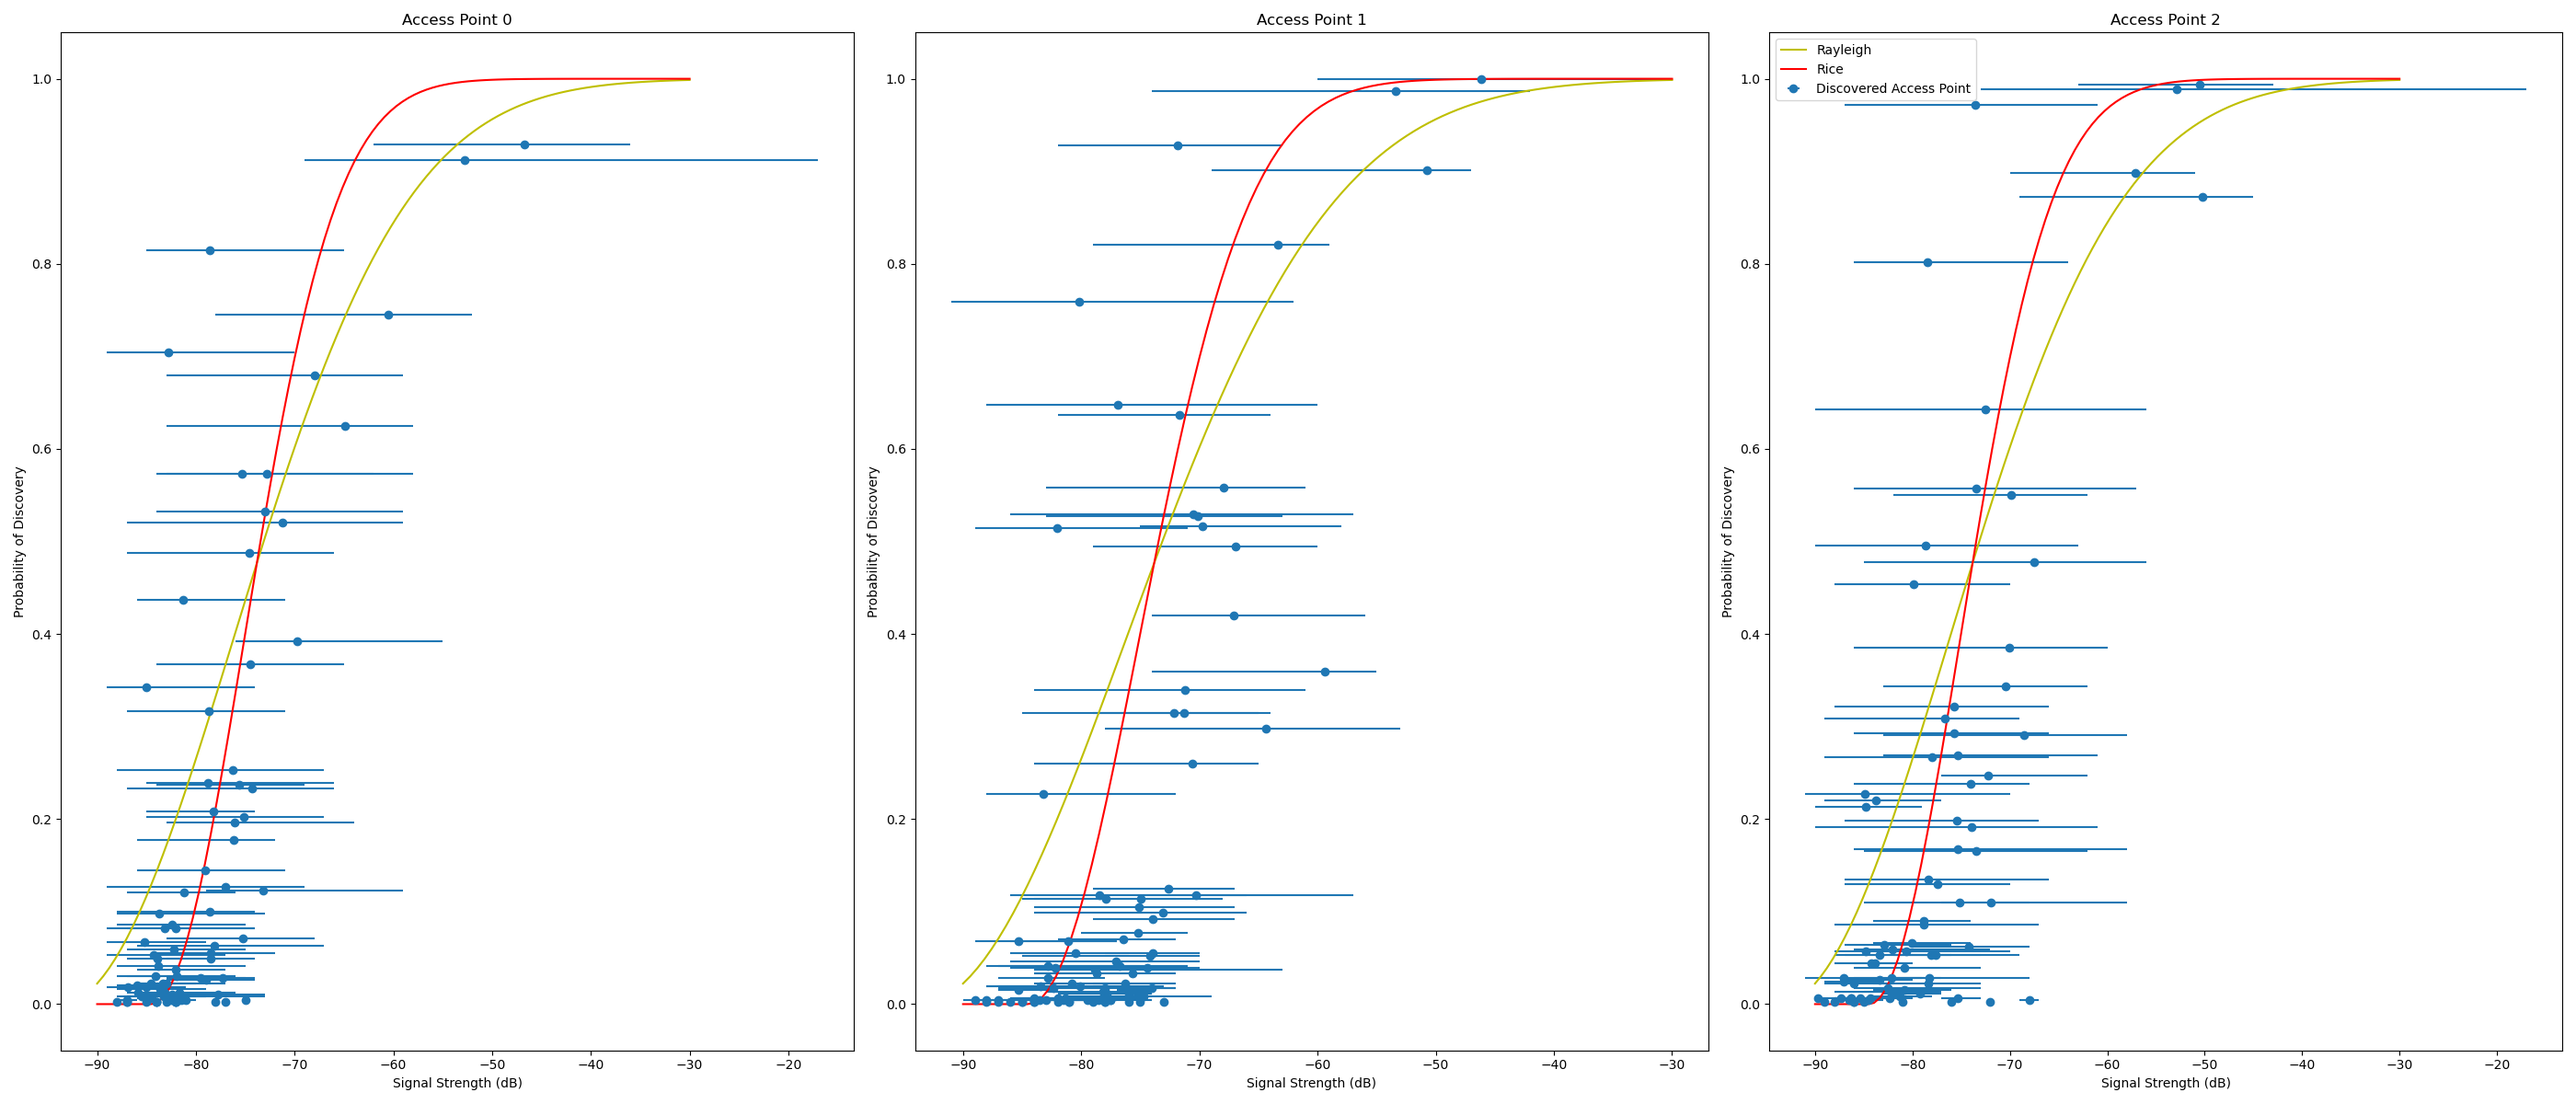
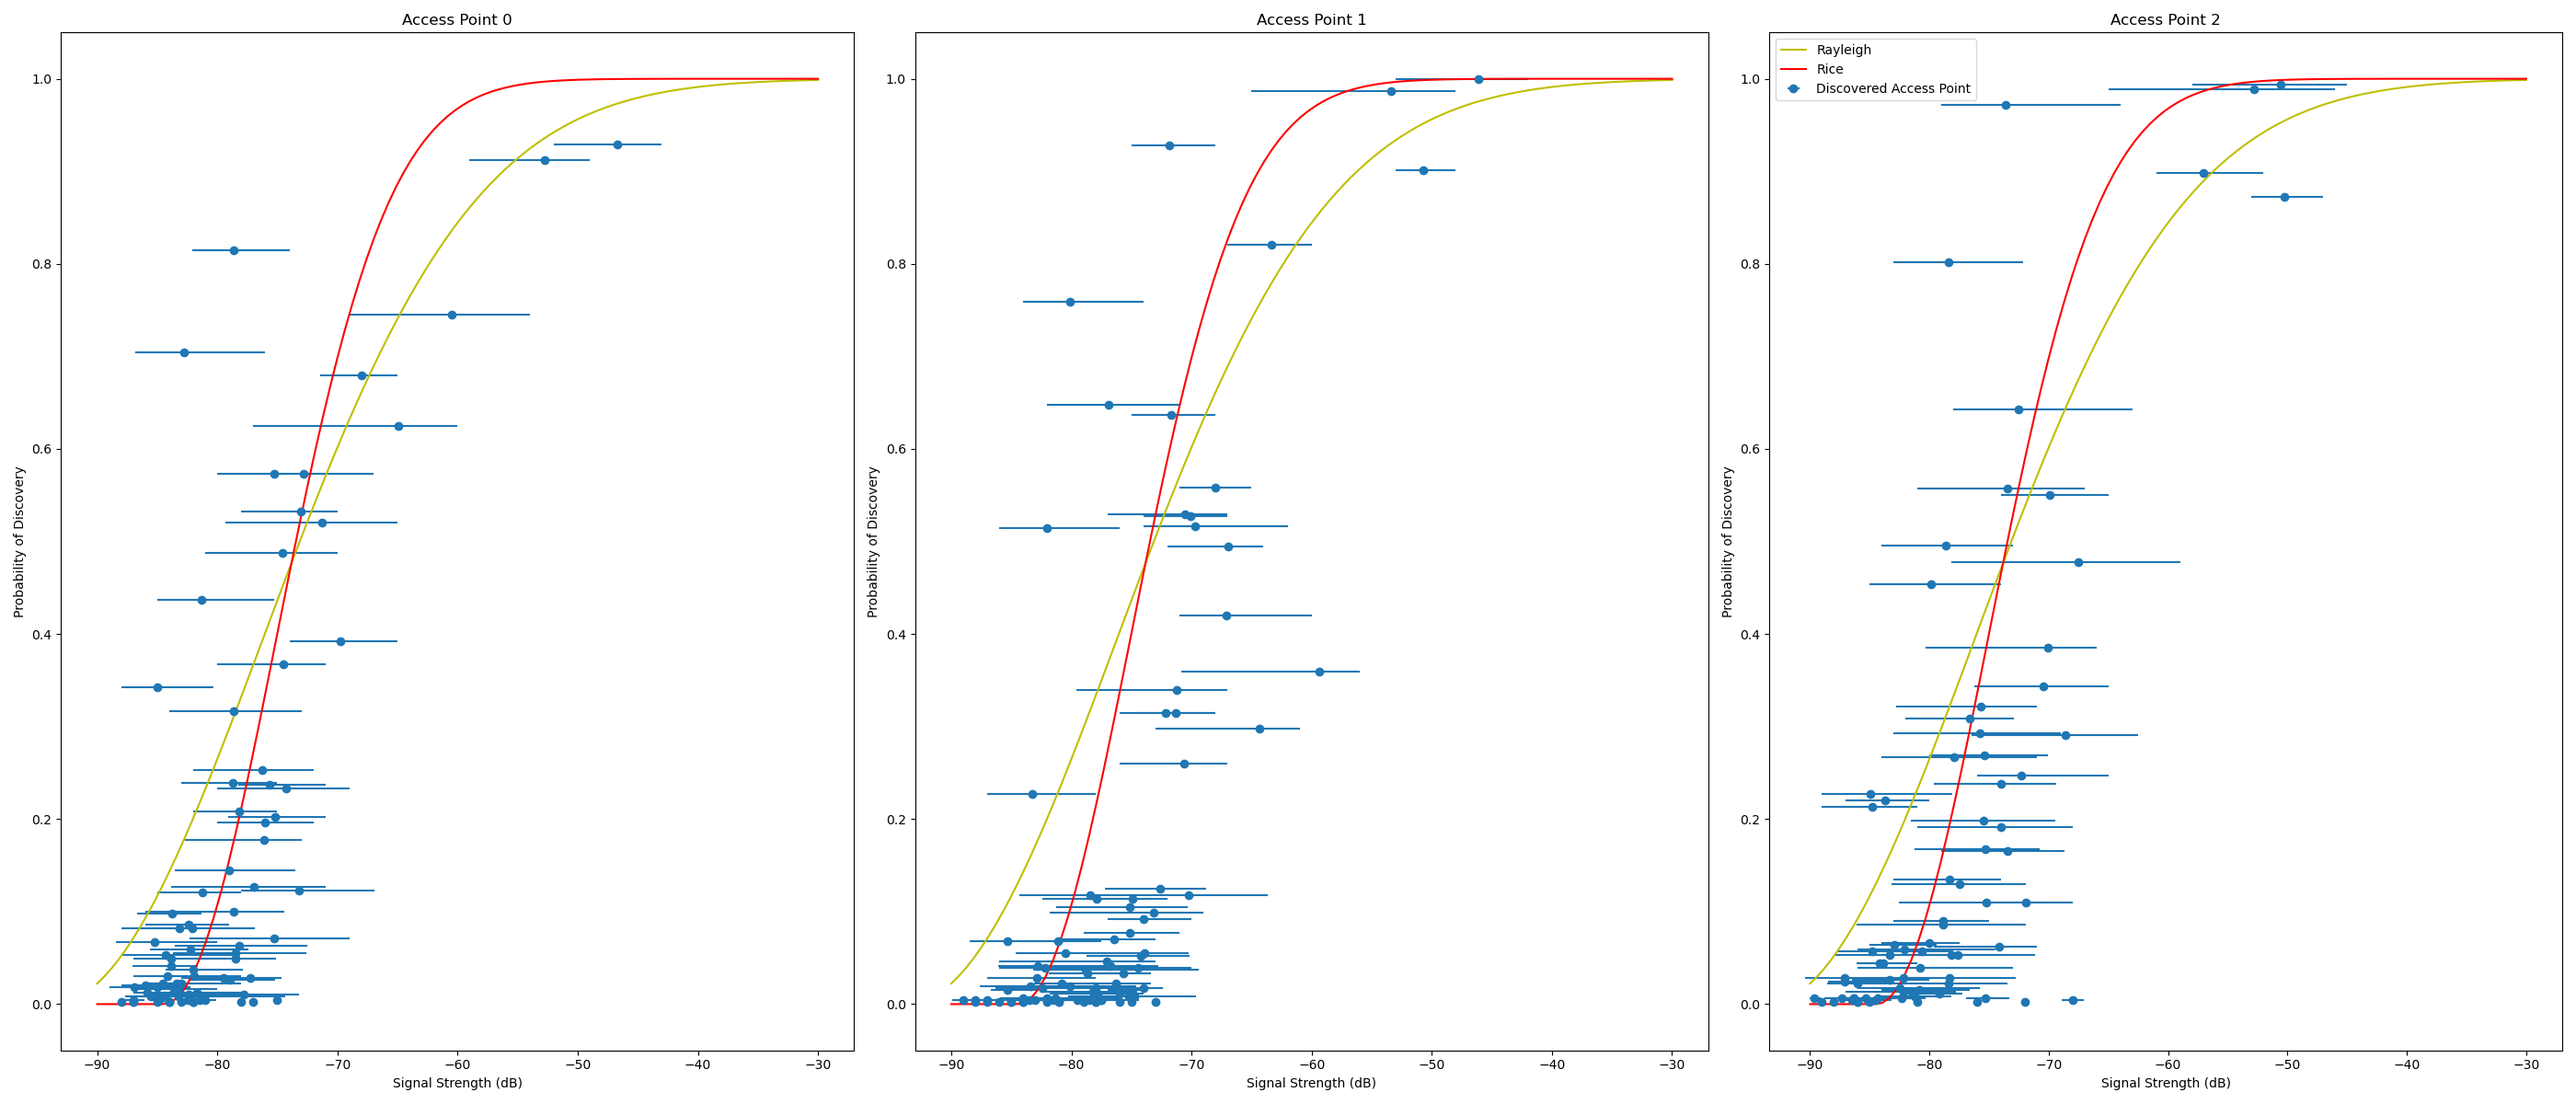
fix(graphing): Change detection probability variance to reflect 95th percentile
There are some outliers on the far edges that polute the results.

diff --git a/graphing/detection_probability.py b/graphing/detection_probability.py
@@ -91,10 +91,10 @@ def detection_probability(
                 mean(signal_strenghts)
             )
             ap_probabilities["Signal Strength Variance"][0].append(
-                mean(signal_strenghts) - min(signal_strenghts)
+                mean(signal_strenghts) - numpy.percentile(signal_strenghts, 5)
             )
             ap_probabilities["Signal Strength Variance"][1].append(
-                max(signal_strenghts) - mean(signal_strenghts)
+                numpy.percentile(signal_strenghts, 95) - mean(signal_strenghts)
             )
 
         axs[index].set_title(f"Access Point {index}")
